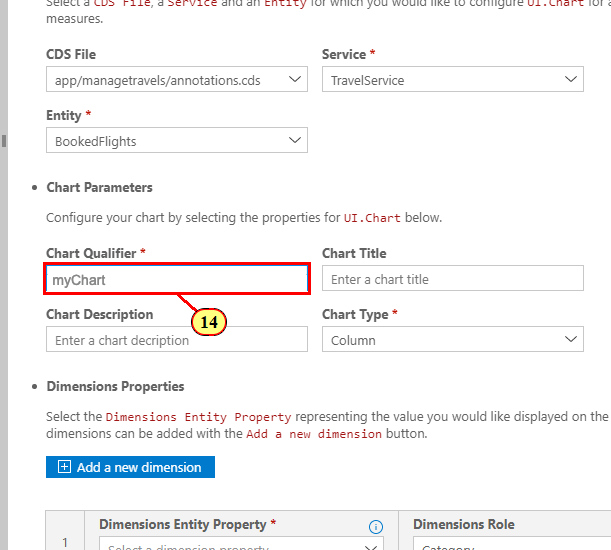
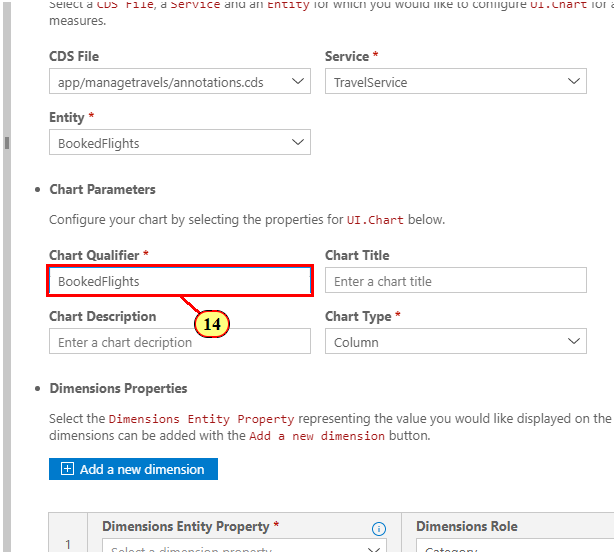
exercises updated

diff --git a/exercises/ex7/README.md b/exercises/ex7/README.md
@@ -53,7 +53,7 @@ In file **app/capabilities.cds** (3) you can find the corresponding **aggregati
 
 ![](./images/image18.png)
 
-(14) **Chart Qualifier**: **My Chart**
+(14) **Chart Qualifier**: **BookedFlights**
 
 ![](./images/image20.png)
 
